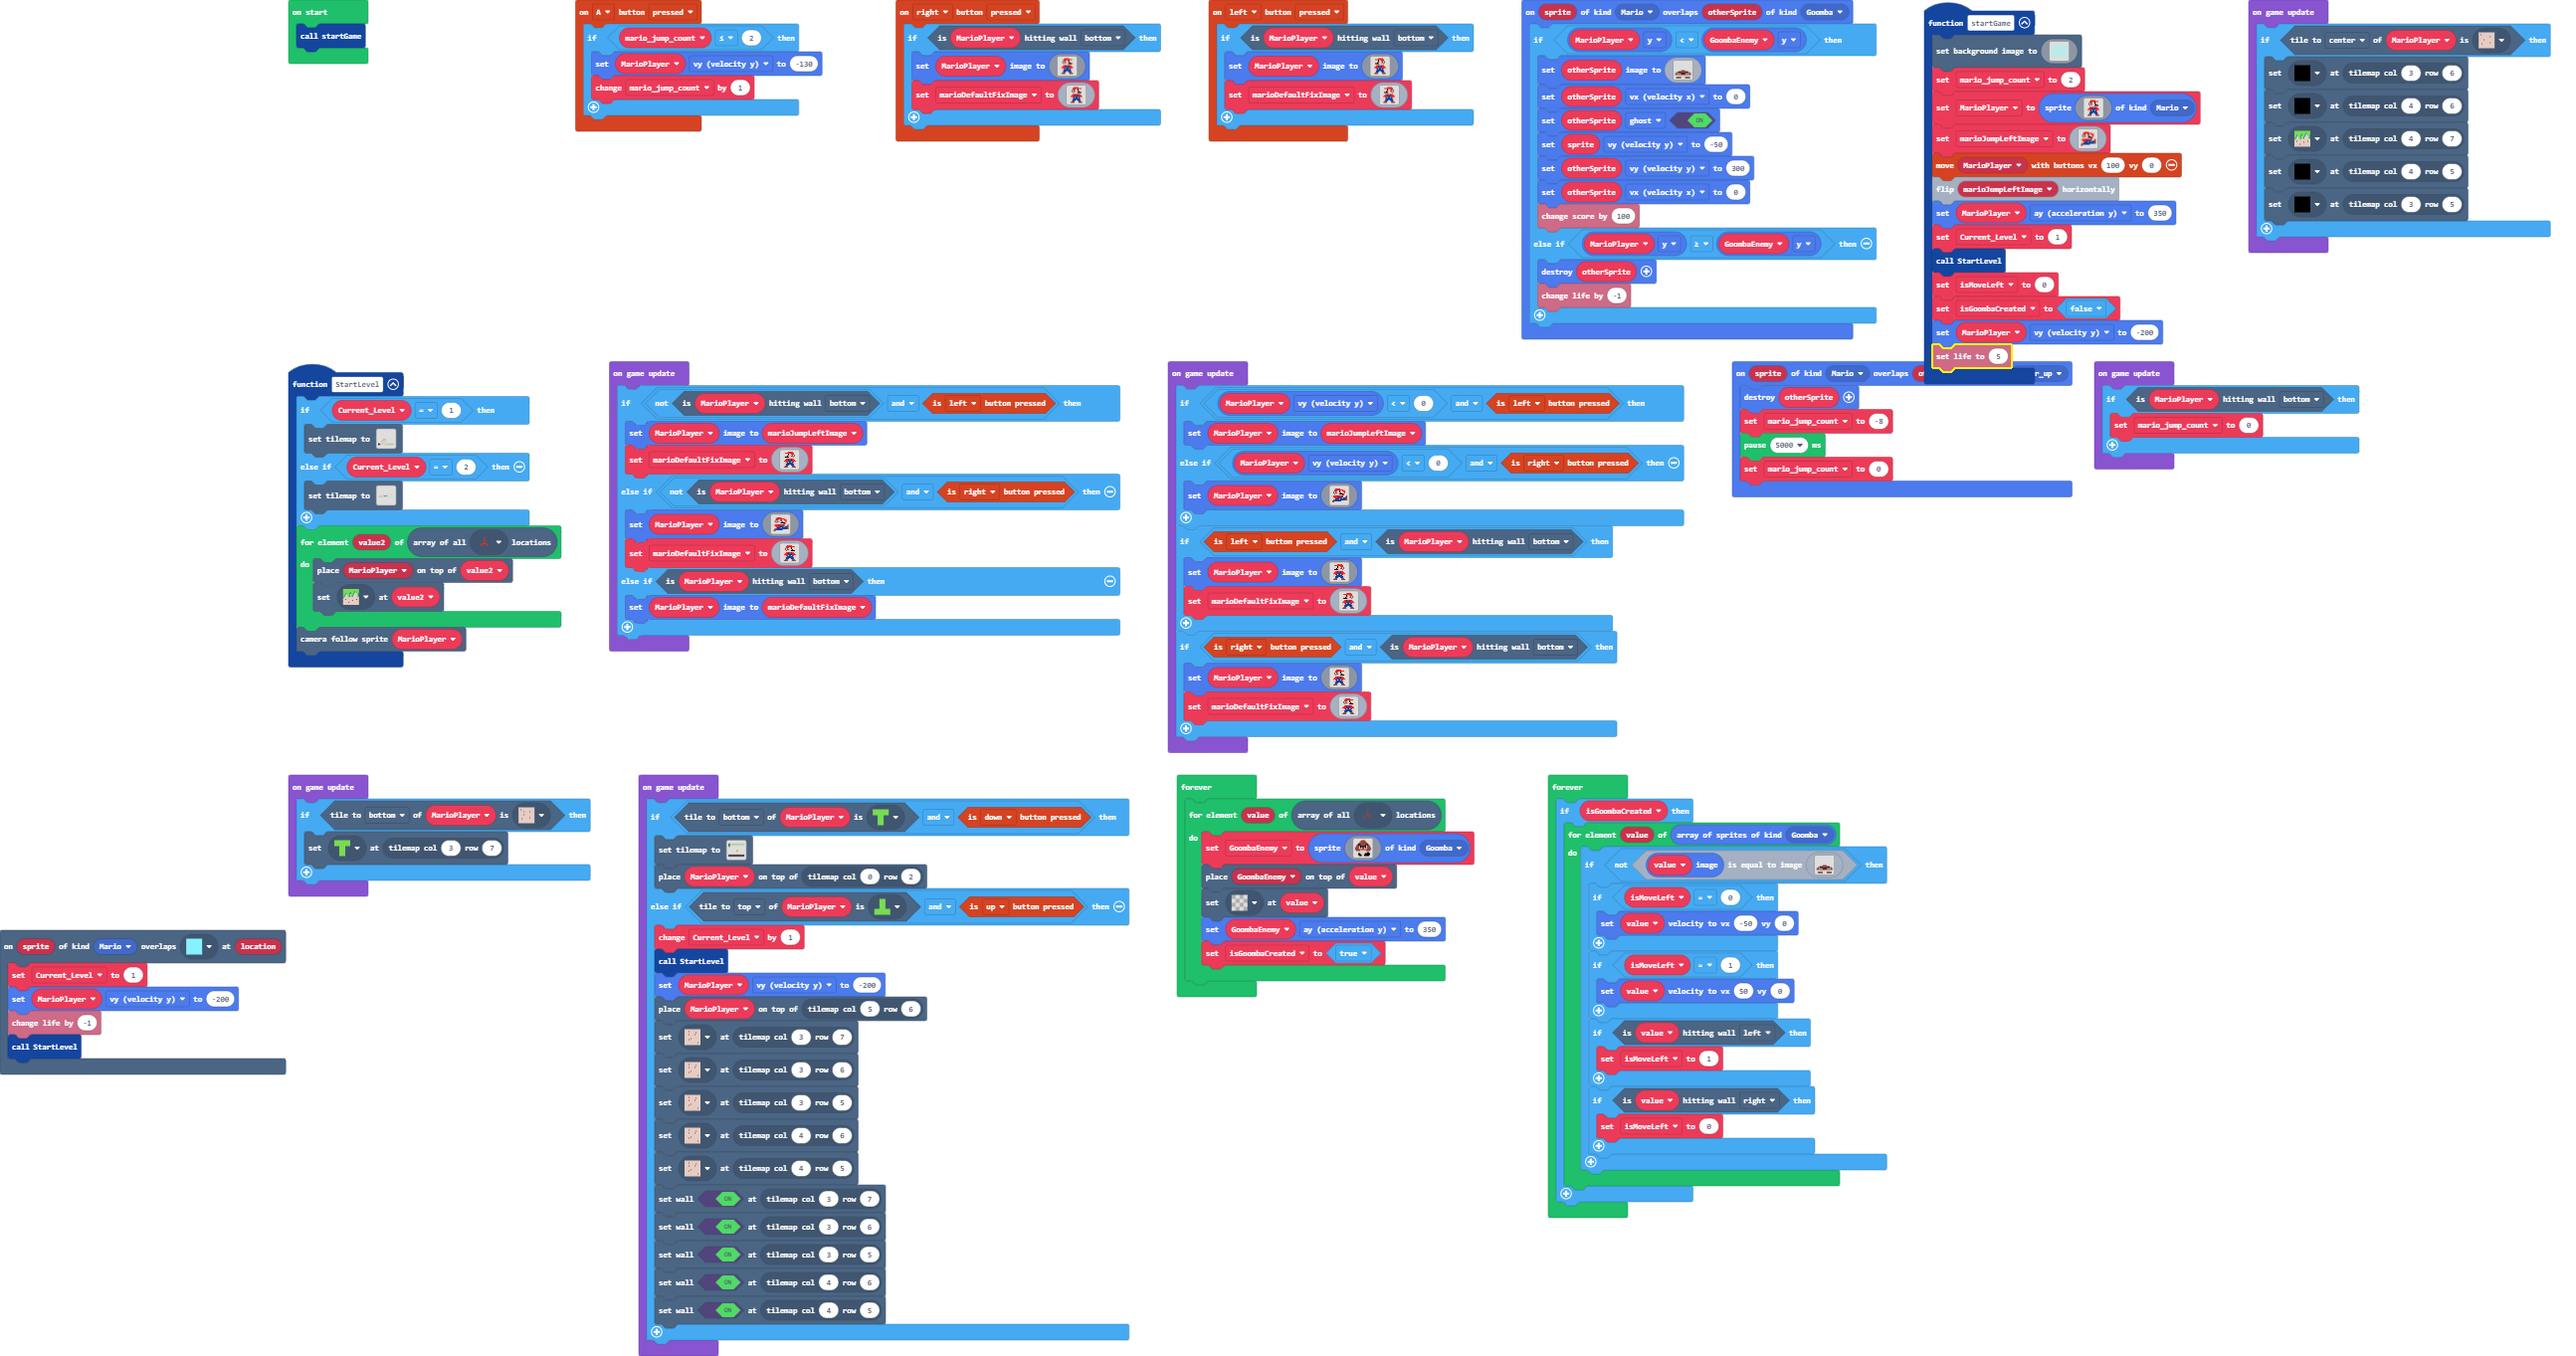
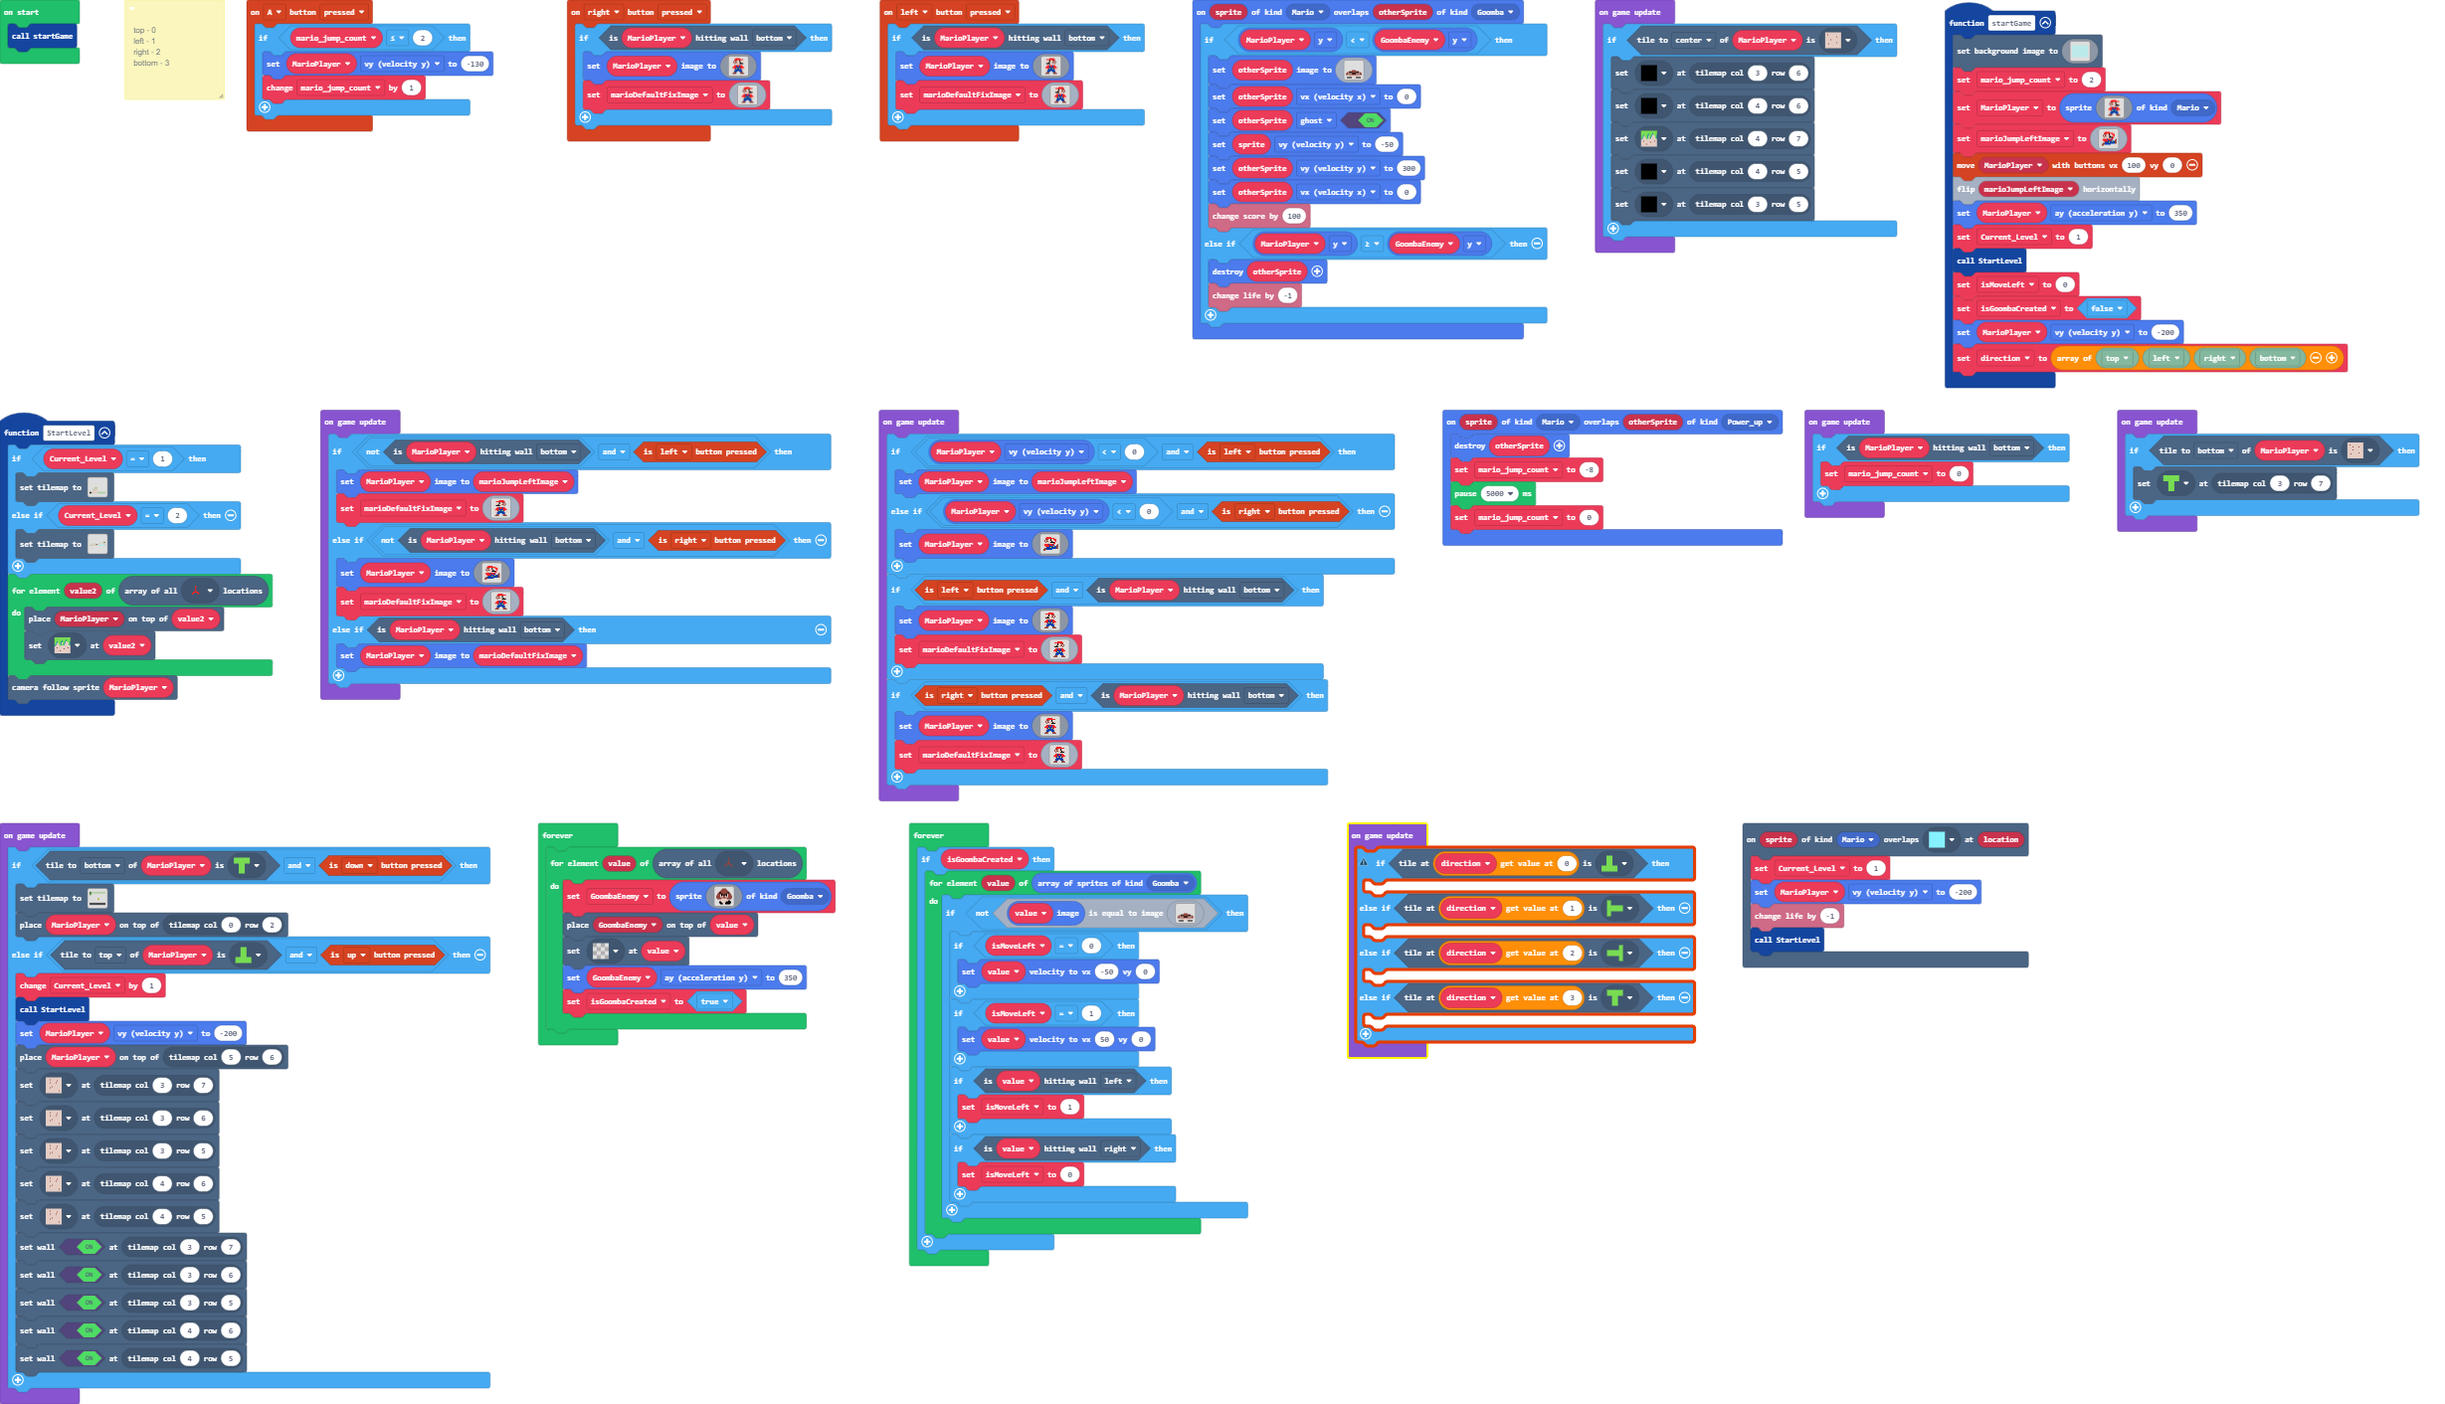
Update pxt.json, main.blocks, main.ts, tilemap.g.jres, tilemap.g.ts

diff --git a/main.ts b/main.ts
@@ -3,6 +3,15 @@ namespace SpriteKind {
     export const Goomba = SpriteKind.create()
     export const Power_up = SpriteKind.create()
 }
+/**
+ * top - 0
+ * 
+ * left - 1
+ * 
+ * right - 2
+ * 
+ * bottom - 3
+ */
 function StartLevel () {
     if (Current_Level == 1) {
[1 lines of base64/hex data omitted]
@@ -14,18 +23,18 @@ function StartLevel () {
             . . 2 . . . . . . . 
             . . 2 . . . . . . . 
             2 2 2 2 2 2 2 2 2 2 
-            `, [myTiles.tile0,myTiles.tile6,myTiles.tile1,myTiles.tile3,myTiles.tile12], TileScale.Sixteen))
+            `, [myTiles.tile0,myTiles.tile6,myTiles.tile1,myTiles.tile3,myTiles.tile12,myTiles.transparency16,myTiles.tile2,myTiles.tile4,myTiles.tile5,myTiles.tile8,myTiles.tile9,myTiles.tile10,myTiles.tile11,myTiles.tile7,myTiles.tile13,myTiles.tile14], TileScale.Sixteen))
     } else if (Current_Level == 2) {
[1 lines of base64/hex data omitted]
-            . . . . . . . . . . . . . . . . . . . . . . . . . . . . . . 
-            . . . . . . . . . . . . . . . . . . . . . . . . . . . . . . 
-            . . . . . . . . . . . . . . . . . . . 2 . . . . 2 2 . . . . 
-            . . . . . . . . . . 2 . . . . . . 2 . . . . 2 . . . . . . . 
-            . . . 2 2 . . . . 2 2 . . . . . 2 2 . . . . . . . . . . . . 
-            . . 2 . . . . . 2 2 2 . . . . . 2 2 . . . . . . . . . . . . 
-            . . 2 . . . . 2 2 2 2 2 2 2 2 2 2 2 . . . . . . . . . . . . 
[1 lines of base64/hex data omitted]
+            . . . . . . . . . . . . . . . . . . . . . . . . . . 2 2 2 2 
+            . . . . . . . . . . . . . . . . . . . . . . . . . . 2 2 2 2 
+            . . . . . . . . . . . . . . . . . . . 2 . . . . 2 2 2 2 2 2 
+            . . . . . . . . . . 2 . . . . . . 2 . . . . 2 . . . 2 2 2 2 
+            . . . 2 2 . . . . 2 2 . . . . . 2 2 . . . . . . . . 2 2 2 2 
+            . . 2 . . . . . 2 2 2 . . . . . 2 2 . . . . . . . . 2 2 2 2 
+            . . 2 . . . . 2 2 2 2 2 2 2 2 2 2 2 . . . . . . . . 2 2 2 2 
             2 2 2 2 2 2 2 2 2 2 2 2 2 2 2 2 2 2 . . . . . . . . . . . . 
-            `, [myTiles.tile0,myTiles.tile6,myTiles.tile1,myTiles.tile8,myTiles.tile13,myTiles.tile2,myTiles.tile12,myTiles.tile14], TileScale.Sixteen))
+            `, [myTiles.tile0,myTiles.tile6,myTiles.tile1,myTiles.tile8,myTiles.tile13,myTiles.tile2,myTiles.tile12,myTiles.tile14,myTiles.tile15,myTiles.tile16], TileScale.Sixteen))
     }
     for (let value2 of tiles.getTilesByType(myTiles.tile3)) {
         tiles.placeOnTile(MarioPlayer, value2)
@@ -205,7 +214,7 @@ function startGame () {
     isMoveLeft = 0
     isGoombaCreated = false
     MarioPlayer.vy = -200
-    info.setLife(5)
+    direction = [CollisionDirection.Top, CollisionDirection.Left, CollisionDirection.Right, CollisionDirection.Bottom]
 }
 controller.left.onEvent(ControllerButtonEvent.Pressed, function () {
     if (MarioPlayer.isHittingTile(CollisionDirection.Bottom)) {
@@ -332,6 +341,7 @@ sprites.onOverlap(SpriteKind.Mario, SpriteKind.Power_up, function (sprite, other
 })
 let GoombaEnemy: Sprite = null
 let marioDefaultFixImage: Image = null
+let direction: CollisionDirection[] = []
 let isGoombaCreated = false
 let isMoveLeft = 0
 let marioJumpLeftImage: Image = null
@@ -544,6 +554,17 @@ game.onUpdate(function () {
         tiles.setWallAt(tiles.getTileLocation(3, 5), true)
         tiles.setWallAt(tiles.getTileLocation(4, 6), true)
         tiles.setWallAt(tiles.getTileLocation(4, 5), true)
+    }
+})
+game.onUpdate(function () {
+    if (tiles.tileAtLocationEquals(direction[0], myTiles.tile10)) {
+    	
+    } else if (tiles.tileAtLocationEquals(direction[1], myTiles.tile15)) {
+    	
+    } else if (tiles.tileAtLocationEquals(direction[2], myTiles.tile18)) {
+    	
+    } else if (tiles.tileAtLocationEquals(direction[3], myTiles.tile8)) {
+    	
     }
 })
 forever(function () {

diff --git a/tilemap.g.ts b/tilemap.g.ts
@@ -32,6 +32,14 @@ namespace myTiles {
     export const tile13 = image.ofBuffer(hex``);
     //% fixedInstance jres blockIdentity=images._tile
     export const tile14 = image.ofBuffer(hex``);
+    //% fixedInstance jres blockIdentity=images._tile
+    export const tile15 = image.ofBuffer(hex``);
+    //% fixedInstance jres blockIdentity=images._tile
+    export const tile16 = image.ofBuffer(hex``);
+    //% fixedInstance jres blockIdentity=images._tile
+    export const tile17 = image.ofBuffer(hex``);
+    //% fixedInstance jres blockIdentity=images._tile
+    export const tile18 = image.ofBuffer(hex``);
 
 }
 // Auto-generated code. Do not edit.
